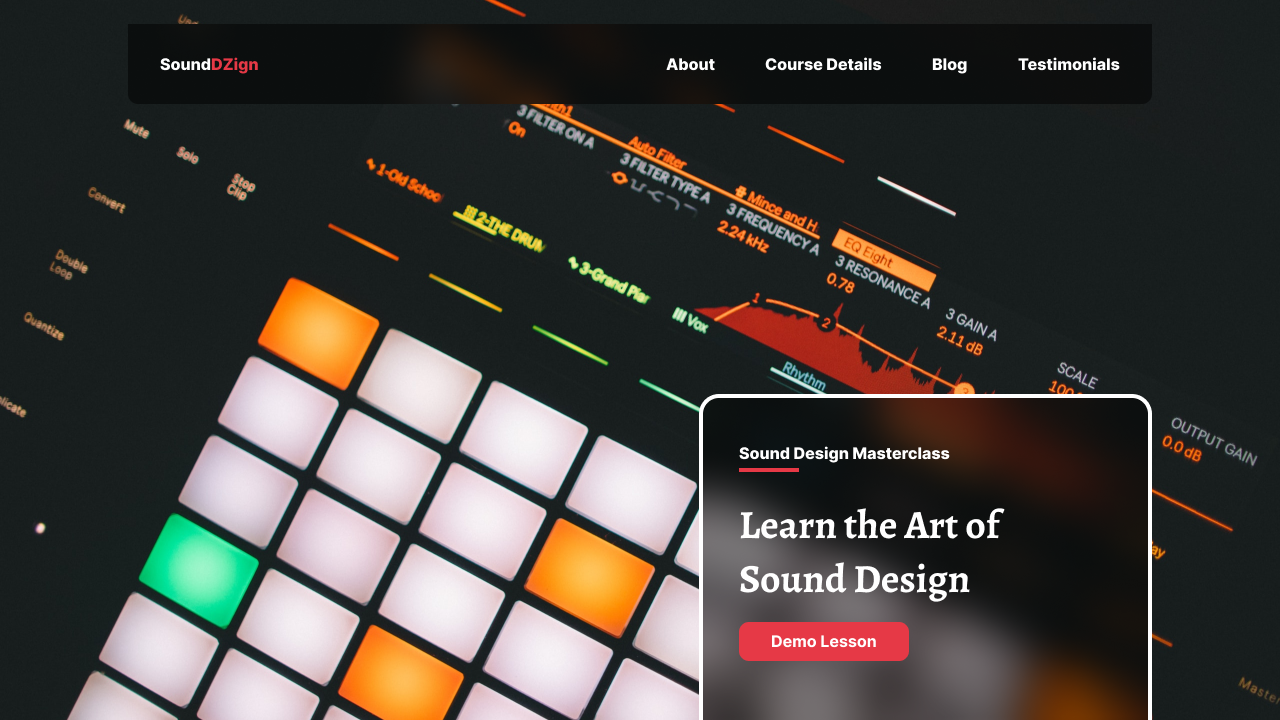
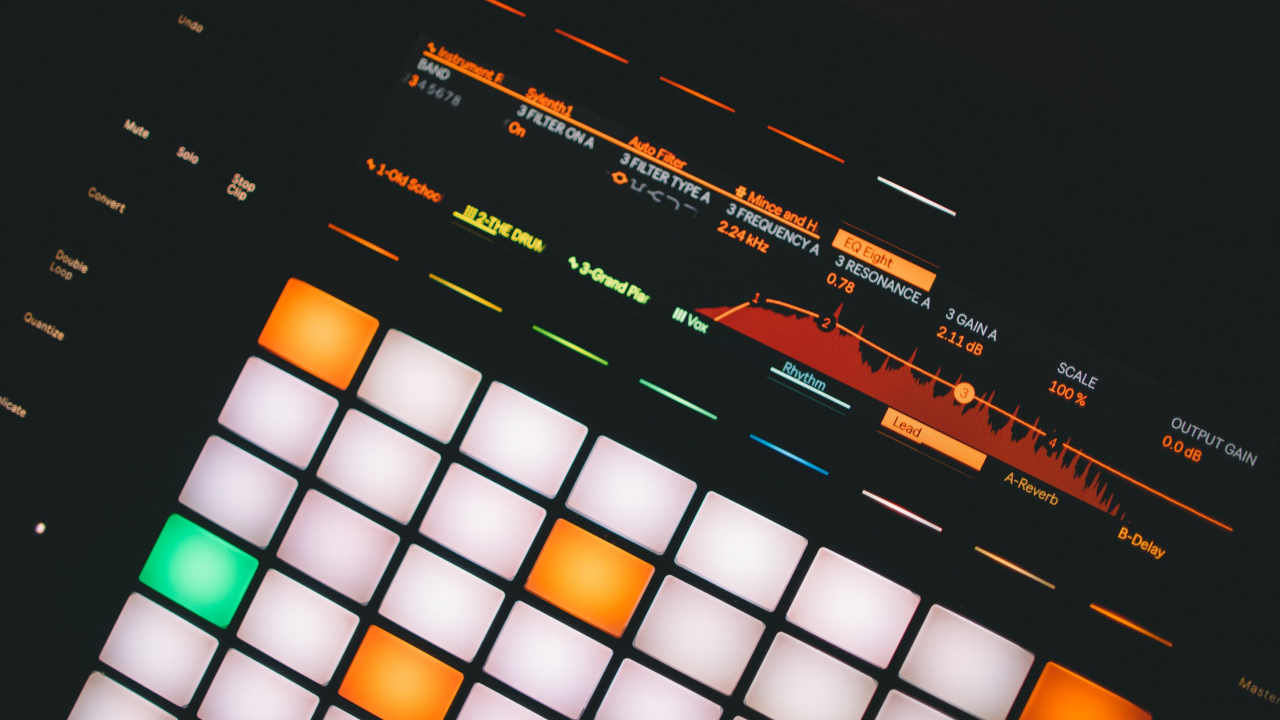
header

diff --git a/src/assets/index.js b/src/assets/index.js
@@ -13,5 +13,23 @@ import thumbnail_2 from './thumbnail_2.png';
 import thumbnail_3 from './thumbnail_3.png';
 import thumbnail from './thumbnail.png';
 import twitterLogo from './twitterLogo.svg';
+import header2 from './header2.png';
 
-export { facebookLogo, frame4, group_7, header, instagramLogo, menuIcon, rectangle_19_2, reactangle_19_3, rectangle_19, students, studentH, thumbnail_2, thumbnail_3, thumbnail, twitterLogo };
+export {
+    facebookLogo,
+    frame4,
+    group_7,
+    header,
+    instagramLogo,
+    menuIcon,
+    rectangle_19_2,
+    reactangle_19_3,
+    rectangle_19,
+    students,
+    studentH,
+    thumbnail_2,
+    thumbnail_3,
+    thumbnail,
+    twitterLogo,
+    header2,
+};

diff --git a/src/components/Header/Header.jsx b/src/components/Header/Header.jsx
@@ -1,10 +1,18 @@
-import React from 'react';
-import './Header.css';
+import React from "react";
+import "./Header.css";
 
 const Header = () => {
   return (
-    <div>This is the header</div>
-  )
-}
+    <header>
+      <div className="wrapper">
+        <div className="cta">
+        <p classsName="course-name">Sound design Masterclass</p>
+        <h1>Learn the art of sound design</h1>
+        <a href="#" className="demo-btn">Demo lesson</a>
+        </div>
+      </div>
+    </header>
+  );
+};
 
-export default Header
+export default Header;

diff --git a/src/index.css b/src/index.css
@@ -1,0 +1,26 @@
+:root {
+    --dark-color: #181E1E;
+    --red-color: #E63946;
+    --pink-color: #FF6864;
+    --yellow-color: #FFCA28;
+}
+
+*,
+*::after,
+*::before {
+    box-sizing: border-box;
+}
+
+body {
+    margin: 0;
+    font-family: "Inter", sans-serif;
+}
+
+.wrapper {
+    max-width: 1024;
+    margin: 0 auto;
+}
+
+a {
+    text-decoration: none;
+}

diff --git a/src/components/Header/Header.css b/src/components/Header/Header.css
@@ -1,0 +1,17 @@
+header {
+    min-height: 100vh;
+    background-image: url('../../assets/header.png');
+    background-size: cover;
+    background-position: center;
+}
+
+header .wrapper {
+    position: relative;
+    height: 100vh;
+}
+
+header .cta{
+    position: absolute;
+    bottom: 0;
+    right: 0;
+}
